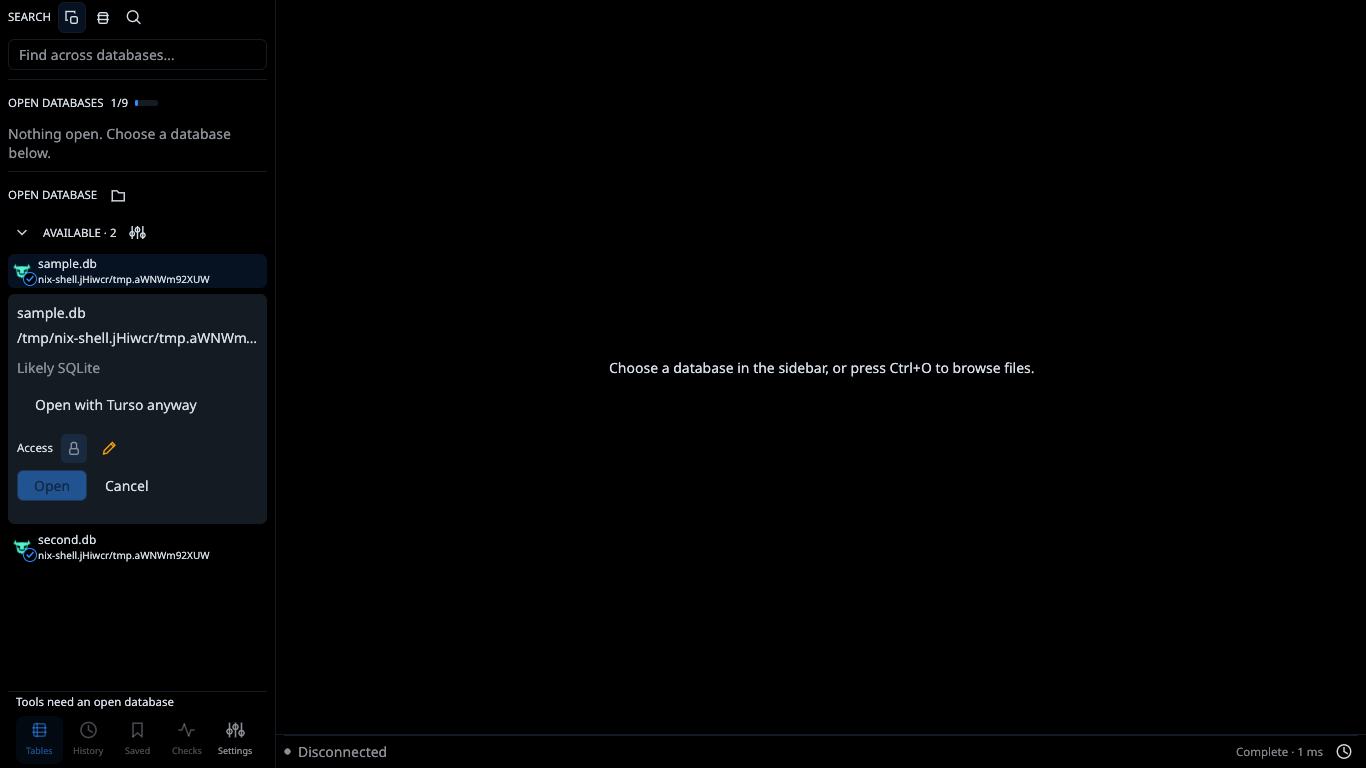
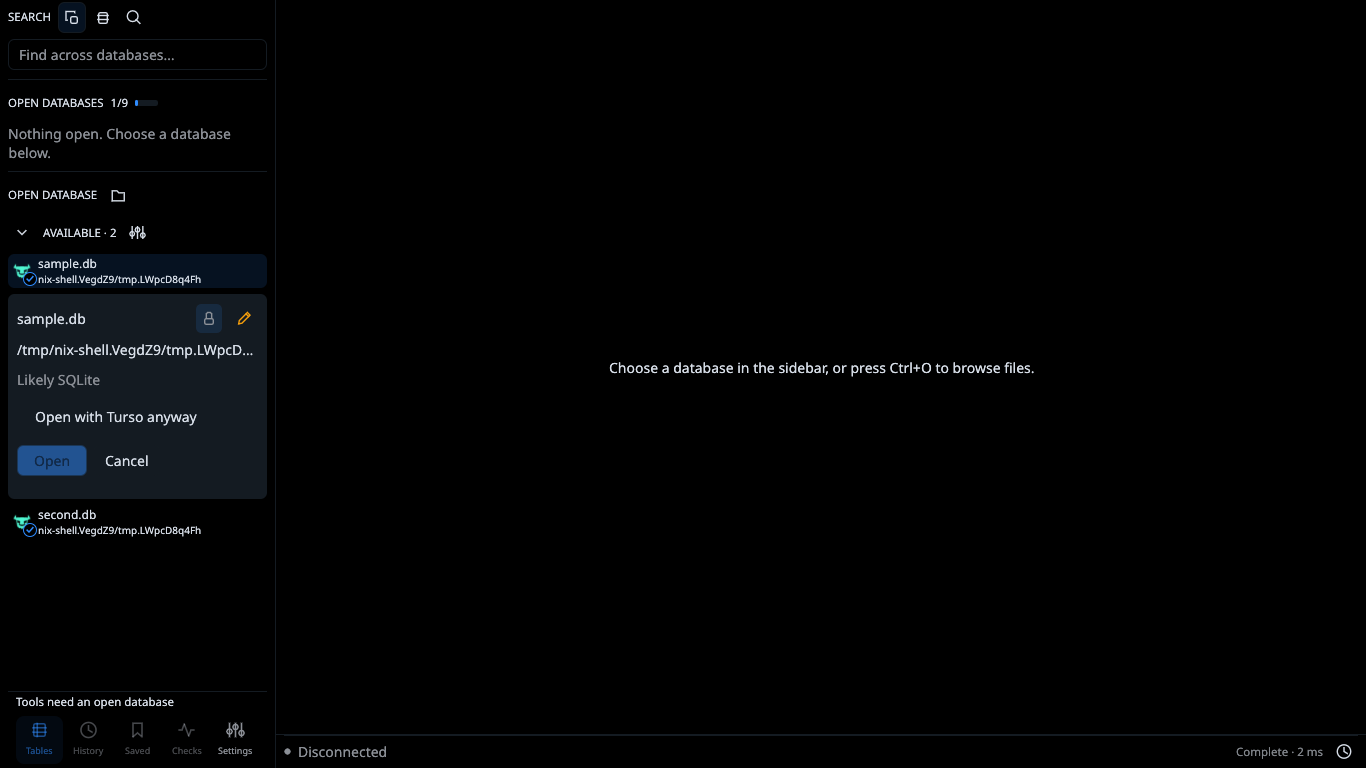
Move database access choices into the card heading

Changed region(s): [[0.0, 0.3438, 0.2152, 0.75]]

diff --git a/crates/tursobench-ui/src/app/databases/connection.rs b/crates/tursobench-ui/src/app/databases/connection.rs
@@ -101,11 +101,22 @@ impl App {
             .show(ui, |ui| {
                 ui.set_width(ui.available_width());
                 let path = Path::new(&self.database.path);
-                ui.add(
-                    egui::Label::new(egui::RichText::new(
-                        path.file_name().unwrap_or(path.as_os_str()).to_string_lossy(),
-                    ).strong()).truncate(),
-                );
+                let name = path.file_name().unwrap_or(path.as_os_str()).to_string_lossy().into_owned();
+                let writable = self.database.writable;
+                ui.horizontal(|ui| {
+                    let name_width = (ui.available_width() - 56.0 - 2.0 * ui.spacing().item_spacing.x).max(1.0);
+                    ui.allocate_ui_with_layout(egui::vec2(name_width, 28.0), egui::Layout::left_to_right(egui::Align::Center), |ui| {
+                        ui.set_min_size(egui::vec2(name_width, 28.0));
+                        ui.add(egui::Label::new(egui::RichText::new(name).strong()).truncate())
+                    }).inner
+                        .on_hover_text(&self.database.path);
+                    for mode in [false, true] {
+                        if crate::app::icons::access_button(ui, mode, Some(self.database.writable == mode)).clicked() {
+                            self.database.writable = mode;
+                        }
+                    }
+                });
+                if self.database.writable != writable { self.databases.open_failure = None; }
                 ui.add(egui::Label::new(&self.database.path).truncate())
                     .on_hover_text(&self.database.path);
                 let inspection = &mut self.databases.inspection;
@@ -121,16 +132,6 @@ impl App {
                     });
                 }
                 ui.add_space(8.0);
-                let writable = self.database.writable;
-                ui.horizontal_wrapped(|ui| {
-                    ui.small("Access");
-                    for mode in [false, true] {
-                        if crate::app::icons::access_button(ui, mode, Some(self.database.writable == mode)).clicked() {
-                            self.database.writable = mode;
-                        }
-                    }
-                });
-                if self.database.writable != writable { self.databases.open_failure = None; }
                 if self.database.writable {
                     ui.small(egui::RichText::new("Opening for writes may change the file. Back up first.").color(ui.visuals().warn_fg_color));
                 }

diff --git a/docs/assets/ui/README.md b/docs/assets/ui/README.md
@@ -7,8 +7,9 @@ one shared definition for access-mode icons, colours, tooltips and accessible na
 a lock for Read only and a pencil for Read/write. Native captures use synthetic
 databases, isolated preferences and headless Weston/Mesa.
 
-- `database-access.png`: icon choices with the selected mode highlighted. The file
-  picker remains above the list; the card contains access review and Open/Cancel.
+- `database-access.png`: refreshed after `a3f18cf`, with the access icons at the
+  top right beside the database name, the selected mode highlighted, and no Access
+  caption. The file picker remains above the list; the card contains access review and Open/Cancel.
   Check again appears only with a blocking file-check error.
 - `sidebar-open-databases.png`: shared access indicators and integrated close buttons.
 - `navigator-settings.png`: database-count slider, memory estimate, Reset, and the
@@ -24,6 +25,9 @@ panels, dialogs, staged edits and database controls; capture dimensions were che
 Formatting, Clippy and all 229 active workspace tests passed (one existing ignored
 test), including mode-icon selection, picker consent and confirmed access switching.
 The access-switch interaction test also passed after shortening the dialog title.
+After moving the card icons into its heading, all 154 active UI tests passed; the six
+connection tests passed again after the final text alignment adjustment, along with
+formatting, Clippy and the native capture checks.
 
 ## Sidebar database navigation v9 — native Wayland
 

diff --git a/docs/guide.md b/docs/guide.md
@@ -114,7 +114,8 @@ Settings in the left panel. Hover controls for their names; F1 opens keyboard he
 
 Access mode uses the same icons throughout the app: a lock for **Read only** and a
 pencil for **Read/write**, with matching tooltips and accessible names. The opening
-card highlights the selected icon. The status-bar icon shows the current mode;
+card places the icons at the top right beside the database name and highlights the
+selected mode. The status-bar icon shows the current mode;
 clicking it asks for confirmation before closing and reopening with different access.
 
 Database navigation stays in the sidebar. **Open databases** shows each live session,
